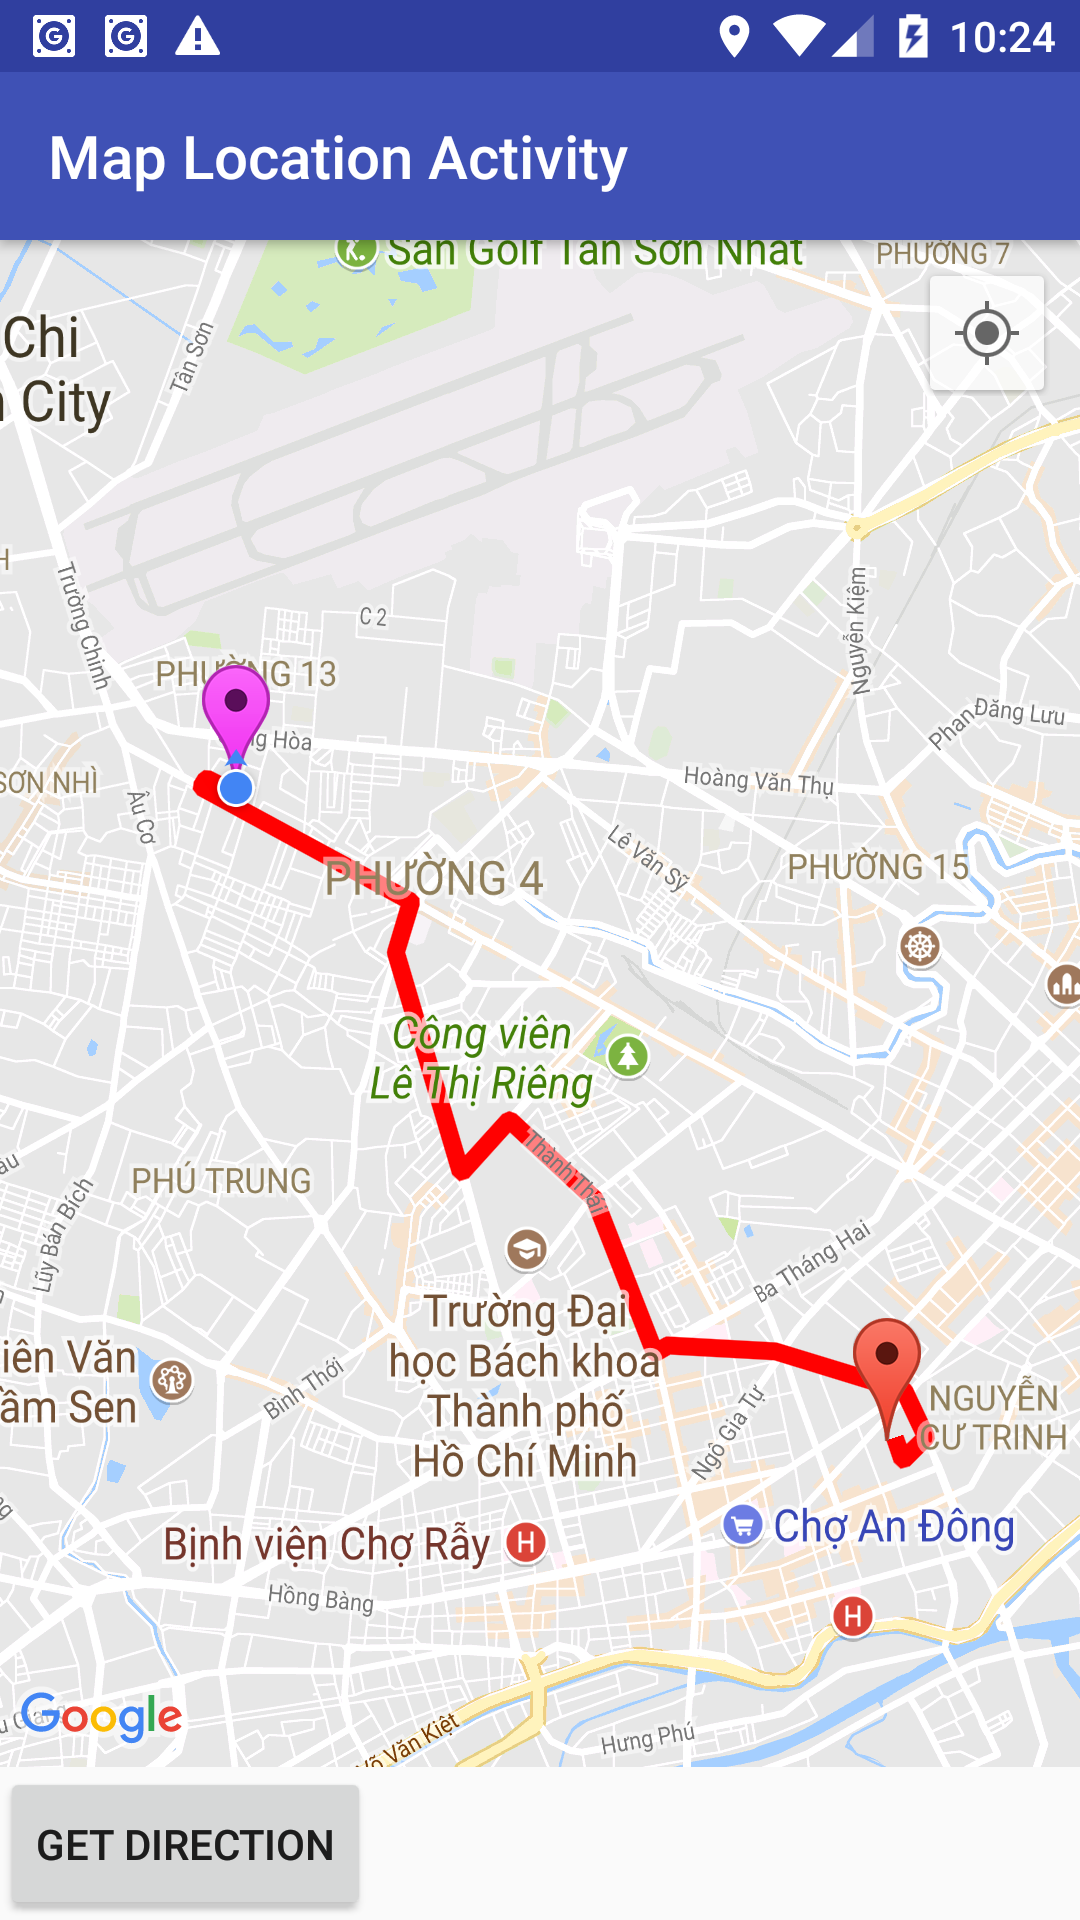
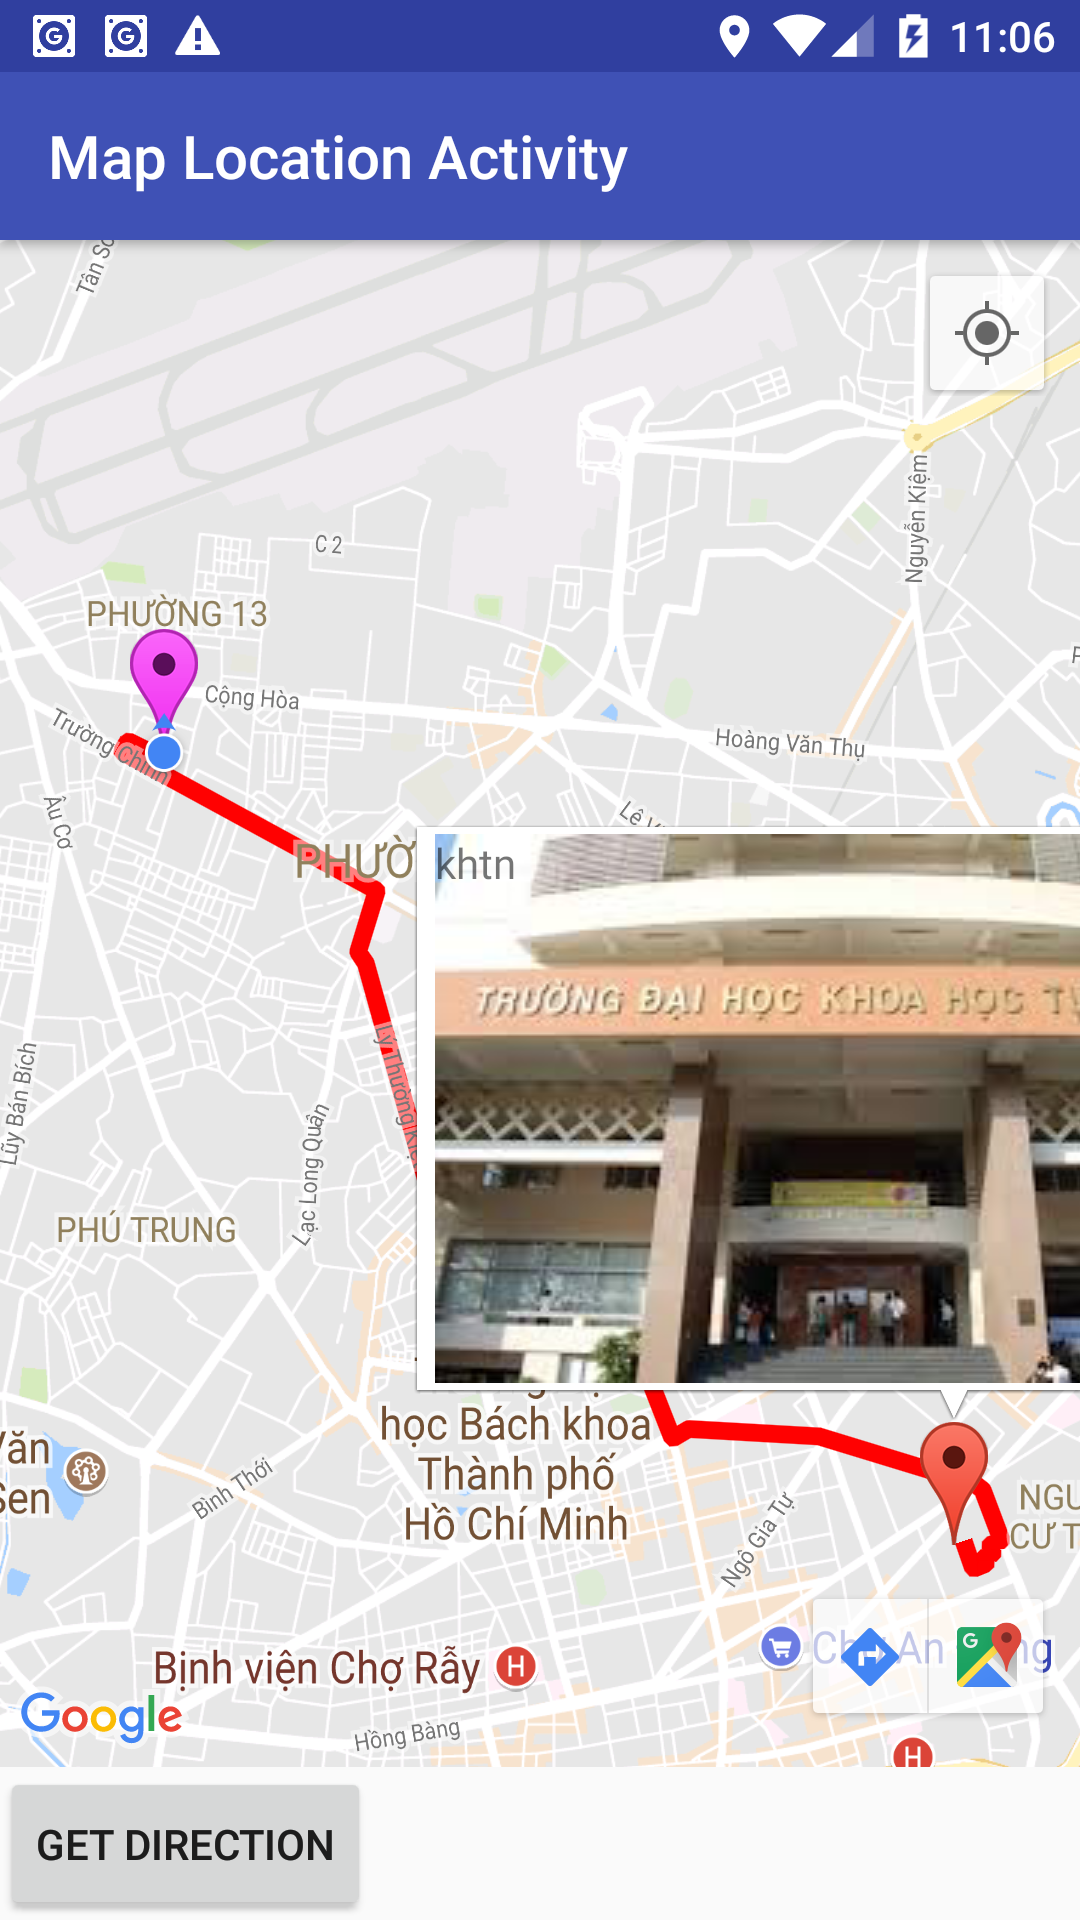
custom marker

diff --git a/app/src/main/java/com/example/pcpv/googlemapdemo/MainActivity.java b/app/src/main/java/com/example/pcpv/googlemapdemo/MainActivity.java
@@ -279,6 +279,23 @@ public class MainActivity extends AppCompatActivity
             Route route = direction.getRouteList().get(0);
             mGoogleMap.addMarker(new MarkerOptions().position(destination));
 
+
+            mGoogleMap.setInfoWindowAdapter(new GoogleMap.InfoWindowAdapter() {
+                @Override
+                public View getInfoWindow(Marker marker) {
+                    return null;
+                }
+
+                @Override
+                public View getInfoContents(Marker marker) {
+                    if (marker.getPosition().equals(destination)) {
+                        View view = MainActivity.this.getLayoutInflater().inflate(R.layout.custom_maker_layout, null);
+                        return view;
+                    }
+                    return null;
+                }
+            });
+
             ArrayList<LatLng> directionPositionList = route.getLegList().get(0).getDirectionPoint();
             mGoogleMap.addPolyline(DirectionConverter.createPolyline(this, directionPositionList, 5, Color.RED));
             setCameraWithCoordinationBounds(route);
